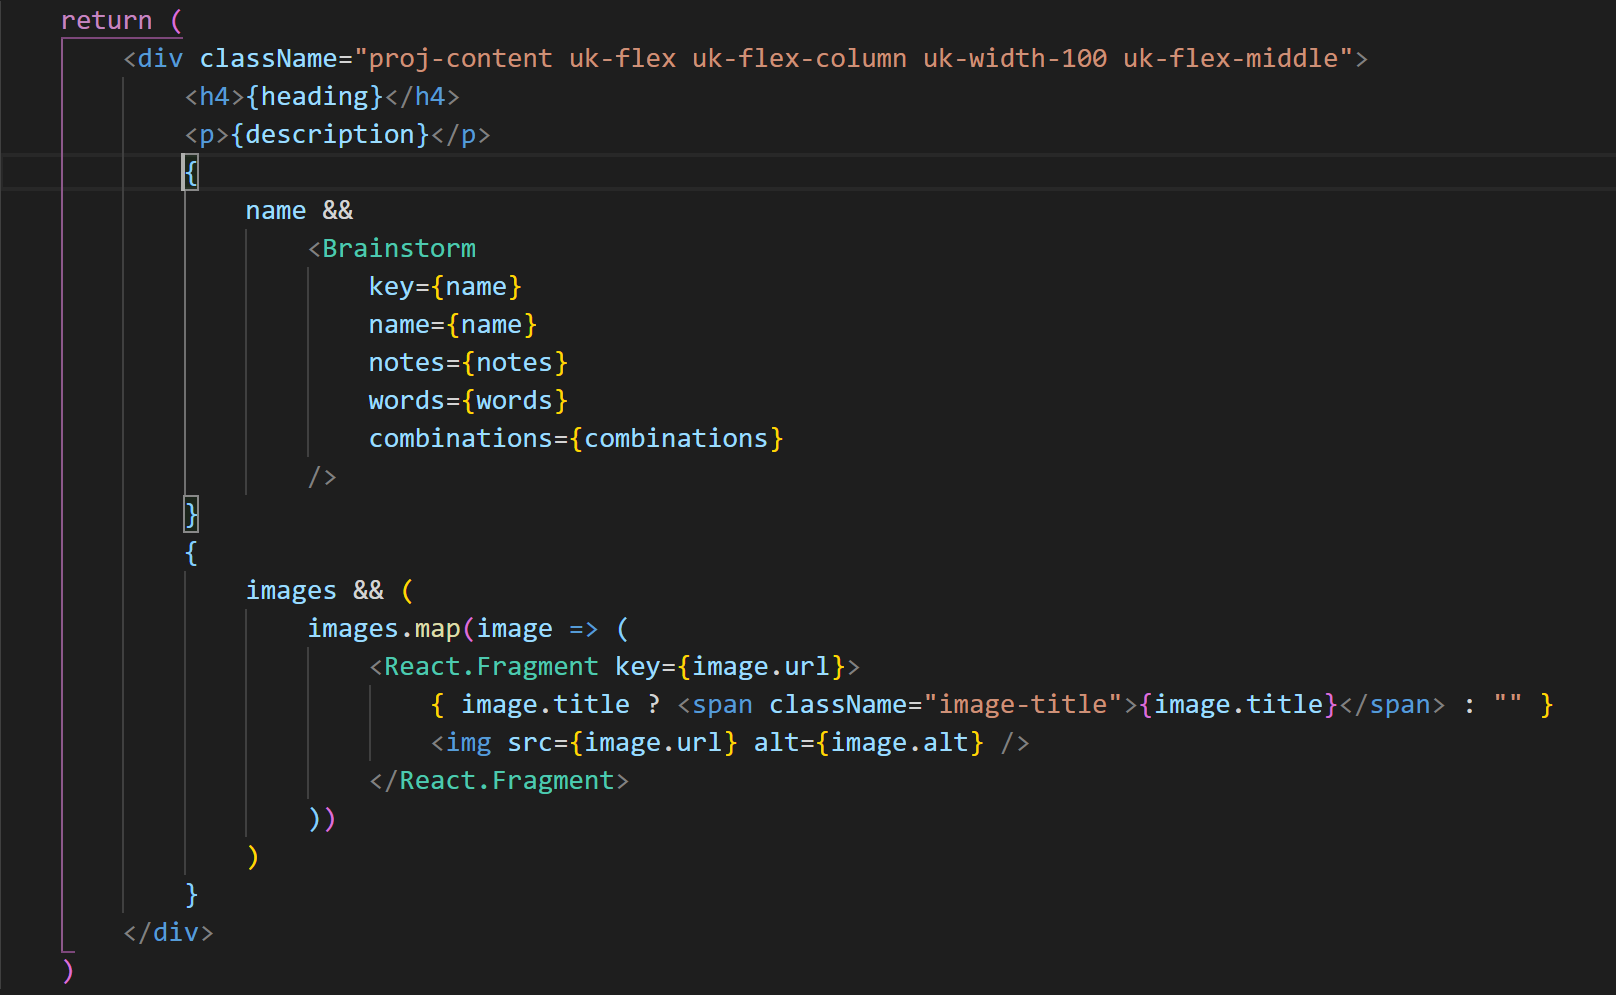
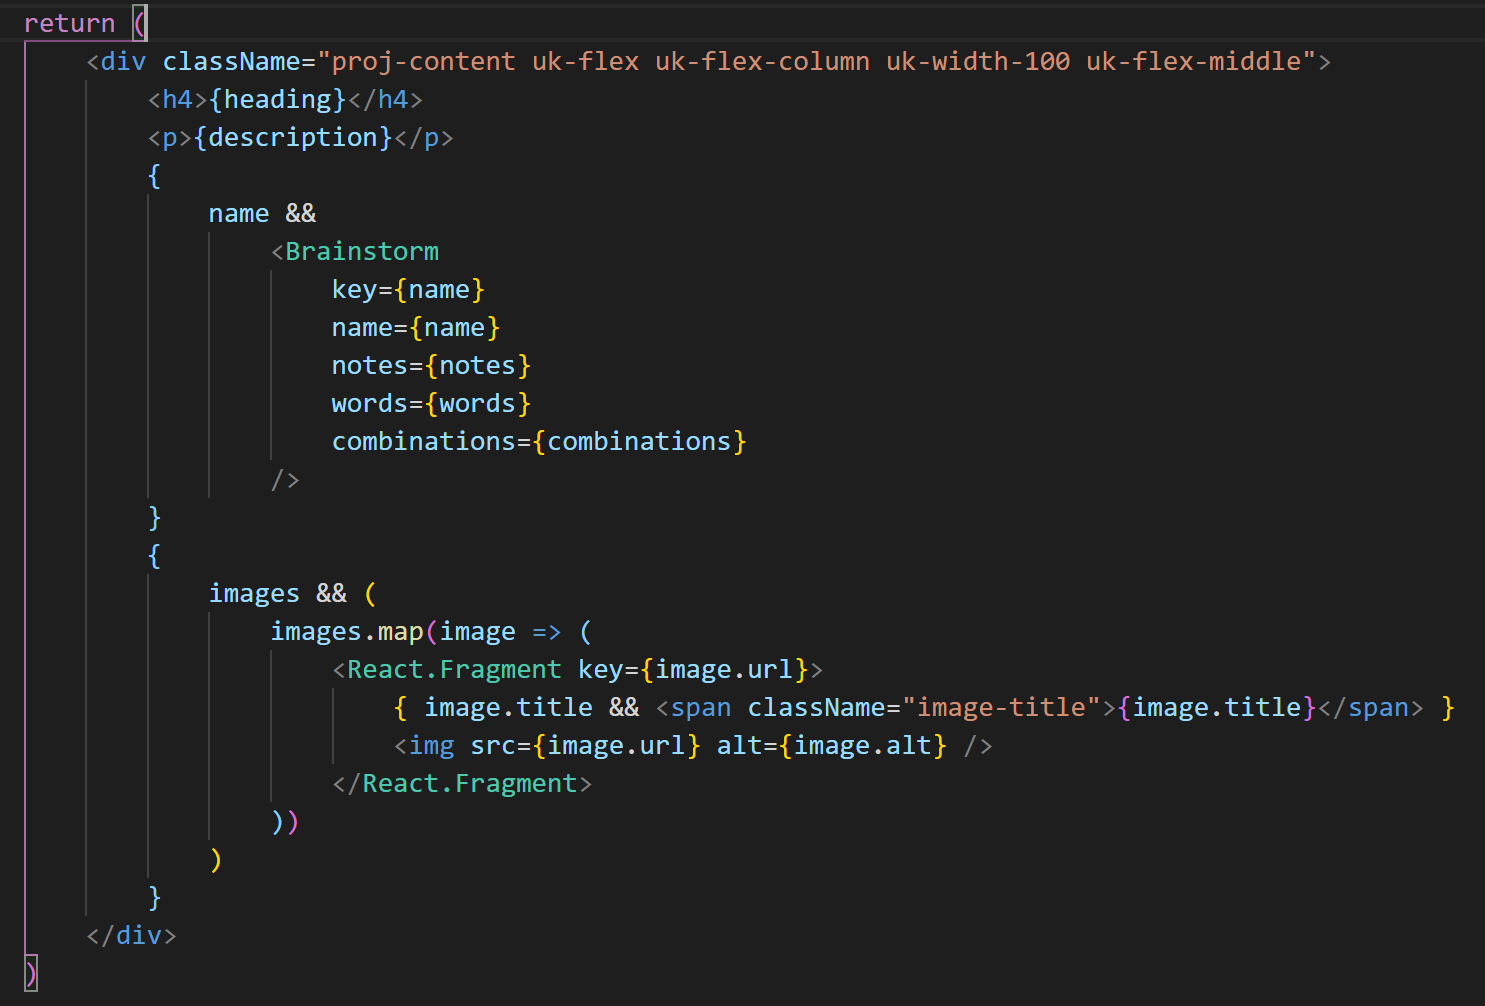
Added a new post

diff --git a/src/utils/API.js b/src/utils/API.js
@@ -334,6 +334,12 @@ const credits = [
 
 const posts = [
     {
+        id: 5,
+        date: "10/18/20 5:25PM",
+        title: "Mobile Navbar",
+        copy: "I decided to make another update to my site by turning the navbar for mobile view into a bottom navbar using icons. This way it's just one click to view another page within my site. I also updated the navigation for my graphic design projects to hide itself when not scrolling so it's not in the way."
+    },
+    {
         id: 4,
         date: "10/14/20 8:55PM",
         title: "An Alternative to Ternary",

diff --git a/src/components/ProjectContent/index.js b/src/components/ProjectContent/index.js
@@ -21,7 +21,7 @@ export default function ProjectContent({ heading, description, name, notes, word
                 images && (
                     images.map(image => (
                         <React.Fragment key={image.url}>
-                            { image.title ? <span className="image-title">{image.title}</span> : "" }
+                            { image.title && <span className="image-title">{image.title}</span> }
                             <img src={image.url} alt={image.alt} />
                         </React.Fragment>
                     ))

diff --git a/src/components/Nav/index.js b/src/components/Nav/index.js
@@ -1,8 +1,8 @@
-import React, { useState } from "react";
+import React from "react";
 import { Link, useLocation } from "react-router-dom";
 import "./nav.css";
 import myLogo from "../../assets/images/alvinGalit_logoMark.png";
-import NavToggle from "../NavToggle";
+// import NavToggle from "../NavToggle";
 
 function Nav() {
 
